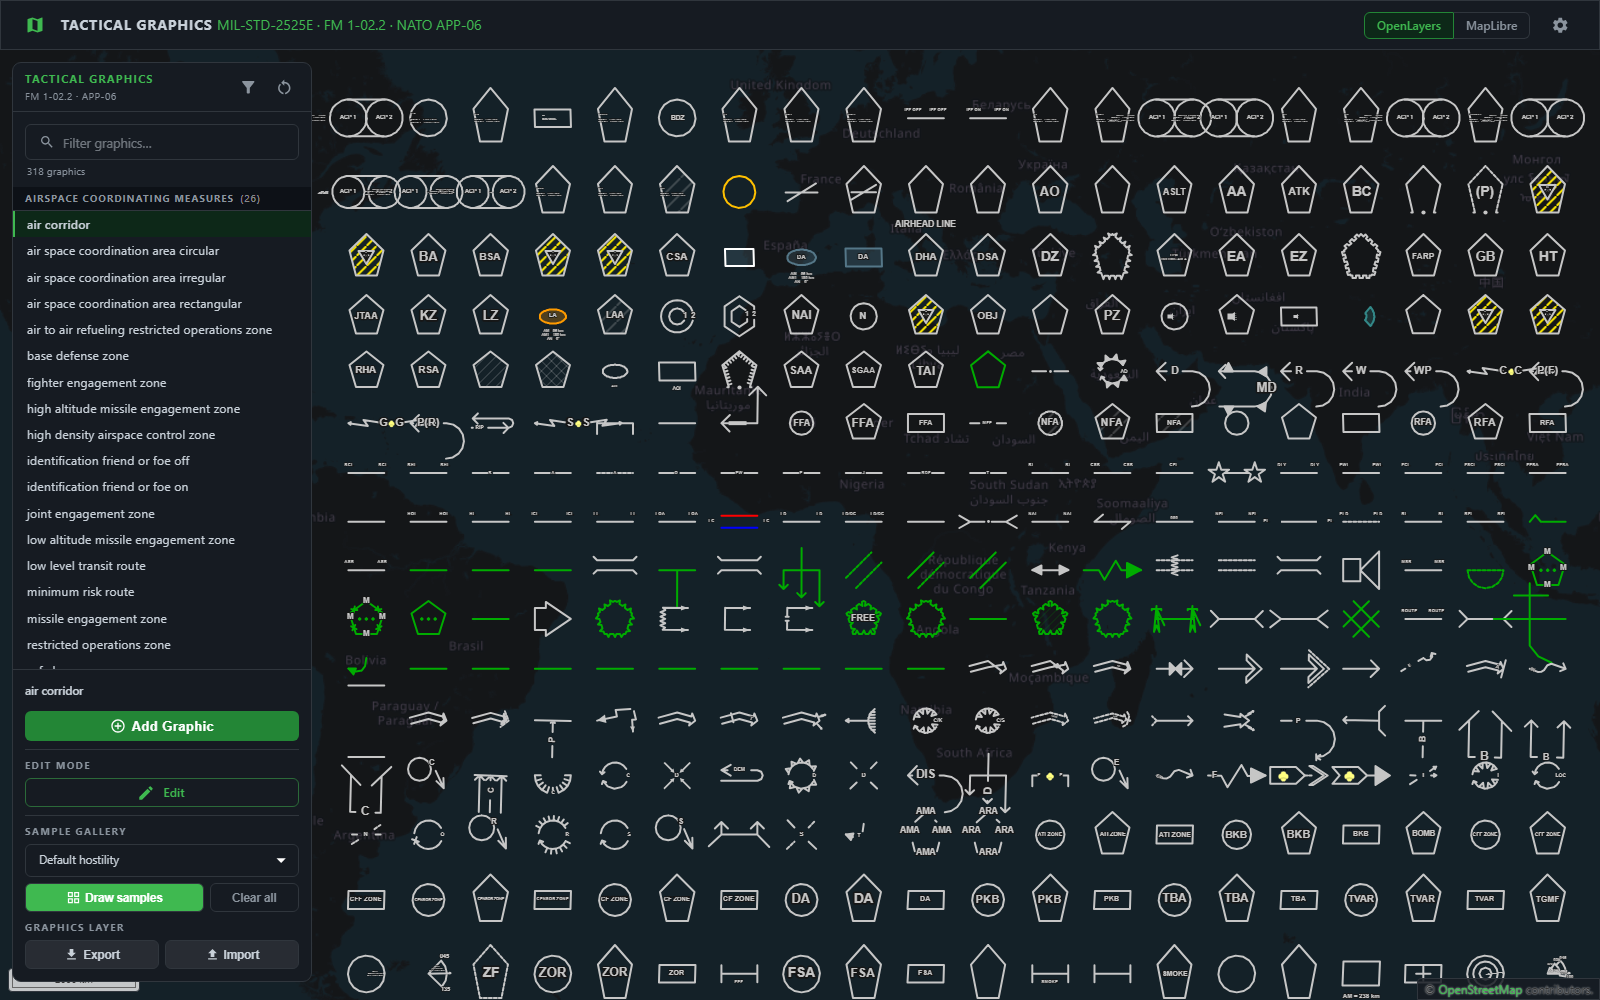
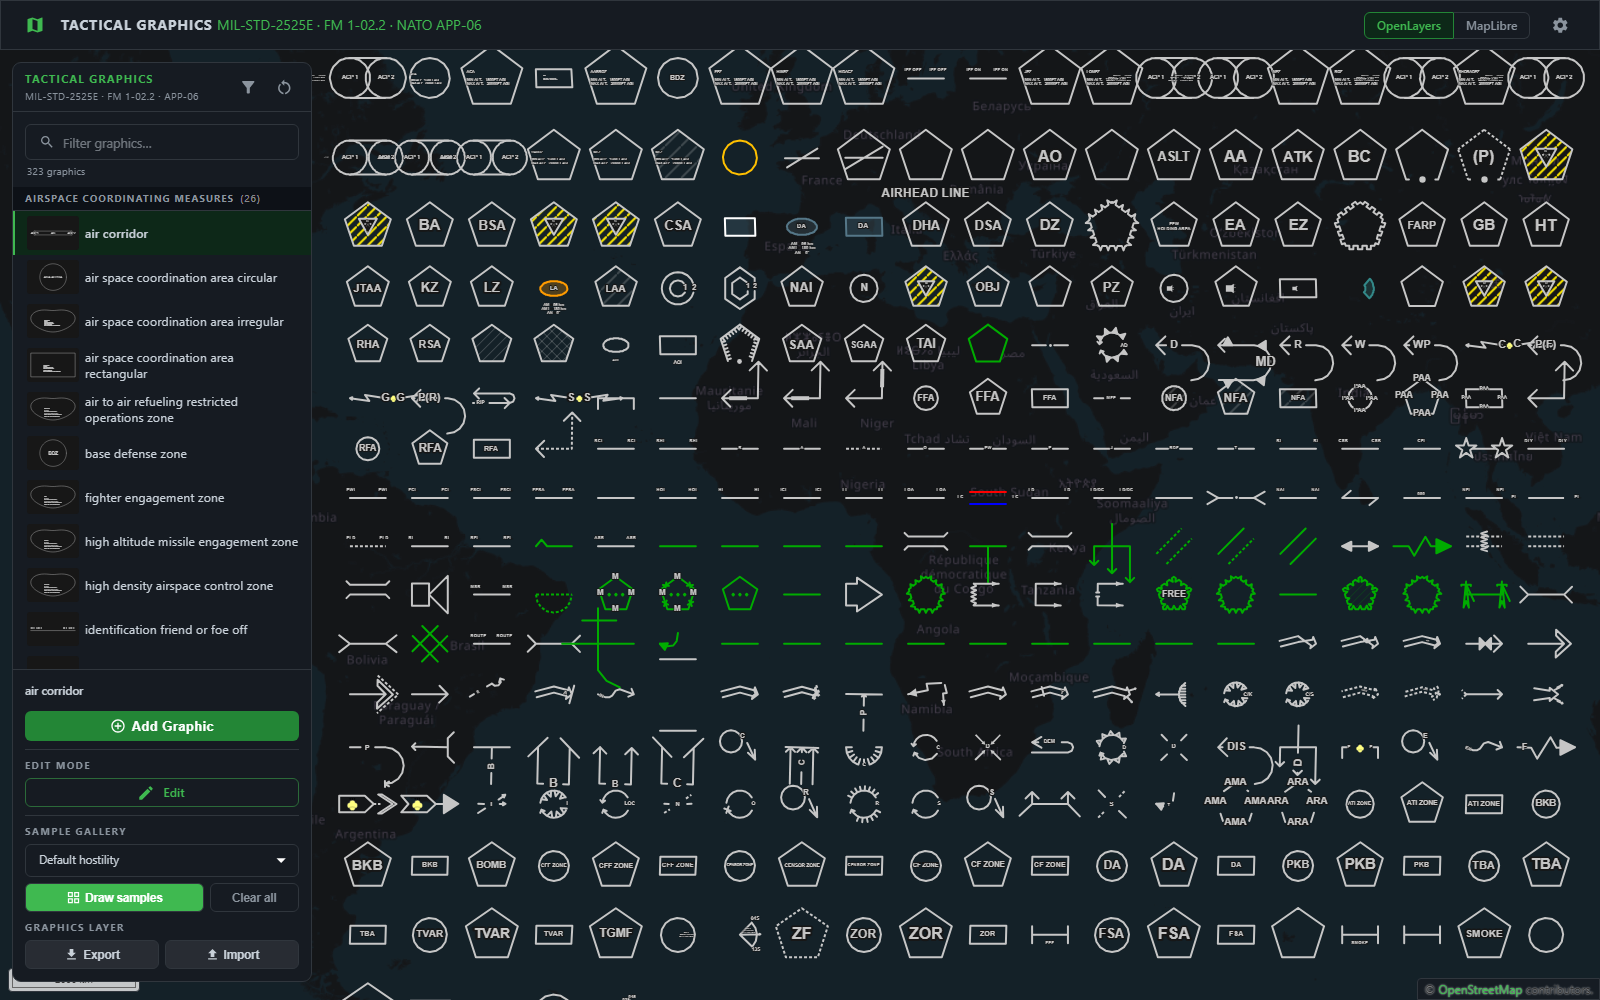
Lead the docs with MIL-STD-2525E before 4.6.0
The README, the package description and the docs home, introduction and
about pages still introduced the library as FM 1-02.2 and APP-06 only.
They now name 2525E first, and the description mentions MapLibre.

Also fixes counts the new graphics moved (TIP_FIRST_GRAPHICS is 31, 317
graphics without a center symbol) and retakes the gallery, which still
showed 318 graphics.

diff --git a/site/guide/tactical-graphic-object.md b/site/guide/tactical-graphic-object.md
@@ -379,12 +379,13 @@ rather than the literal, so pass the enum.
 defines the tip of the arrowhead. Point N-1 defines the rear of the symbol."* So on an
 axis of advance the **first** coordinate is the head and the last is the tail.
 
-**Twenty-seven graphics are listed in `TIP_FIRST_GRAPHICS`**: the ones whose stored order
+**Thirty-one graphics are listed in `TIP_FIRST_GRAPHICS`**: the ones whose stored order
 the library turns around before its generator reads it. The list is the axis-of-advance
 family, avenue of approach, both follow tasks, both counterattacks, advance to contact,
 frontal attack, turning movement, mobile defense, the seven retrograde canes, both fixes,
-fields of fire, search area and the two convoys. Fields of fire and search area are the
-odd ones: APP-06 numbers their **vertex** first, so their first two points swap rather than
+fields of fire and the four symbols MIL-STD-2525E Change 1 draws on its V, search area and
+the two convoys. The fields-of-fire family and search area are the odd ones: APP-06 numbers
+their **vertex** first, so their first two points swap rather than
 the whole line reversing. `generatorOrder(name, coords)` and `storedOrder(name, coords)`
 apply the right one.
 
@@ -397,7 +398,7 @@ stored.
 import {TIP_FIRST_GRAPHICS, drawsTipFirst} from '@zaes/tactical-graphics';
 
 drawsTipFirst(TacticalGraphicName.MainAxisOfAdvance);   // → true
-TIP_FIRST_GRAPHICS.length;                              // → 27
+TIP_FIRST_GRAPHICS.length;                              // → 31
 ```
 
 Nothing about the rendered symbol changes — the shape, its decorations, its handles and
@@ -407,8 +408,8 @@ arrow points at.
 **3.0.0 changed this and saved data is not migrated.** There is no version marker in
 `properties.tacticalGraphic` to detect an older graphic by, so if you hold data written by
 1.x or 2.x, apply 3.0.0's list to it: reverse the coordinate array of every graphic
-`drawsTipFirst` returns true for today (search area and the two convoys did not exist
-then), and of the eight named above that have left the list since. The one exception is
+`drawsTipFirst` returns true for today (search area, the two convoys and the four
+fields-of-fire symbols did not exist then), and of the eight named above that have left the list since. The one exception is
 fields of fire, whose first two points swap instead; `storedOrder` does that for you. The
 multipoint graphics that were never on the list — the ones drawn from anchor points,
 demonstration, the obstacle bypasses, the swept-arc tasks, exfiltrate and infiltrate, the

diff --git a/site/index.md b/site/index.md
@@ -3,7 +3,7 @@ layout: home
 
 hero:
   name: Tactical Graphics
-  text: FM 1-02.2 and APP-06 as plain GeoJSON
+  text: MIL-STD-2525E tactical graphics as plain GeoJSON
   tagline: Axis-of-advance arrows, phase lines, mission tasks, range fans and boundaries, for OpenLayers, MapLibre or anything that reads GeoJSON.
   actions:
     - theme: brand
@@ -23,8 +23,8 @@ features:
   - title: Two renderers, one paint layer
     details: OpenLayers and MapLibre draw from the same symbology code, with drawing, editing and a shared createTacticalGraphics façade.
     link: /guide/rendering
-  - title: Every graphic in both standards
-    details: The line and area graphics of FM 1-02.2 and APP-06, each drawable, checked against the plate that defines it, and editable wherever the symbol allows.
+  - title: Every graphic in all three standards
+    details: The line and area graphics of MIL-STD-2525E, FM 1-02.2 and APP-06, each drawable, checked against the plate that defines it, and editable wherever the symbol allows.
     link: /guide/graphics
   - title: Pictures for a picker
     details: One small SVG per graphic from the thumbnails entry point, drawn by the same paint layer as the map.

diff --git a/site/about.md b/site/about.md
@@ -2,7 +2,7 @@
 
 ## Roadmap
 
-Keep pace with FM 1-02.2 and APP-06 as they are revised. Every graphic this library tracks is
+Keep pace with MIL-STD-2525E, FM 1-02.2 and APP-06 as they are revised. Every graphic this library tracks is
 complete today, so a new edition's additions are what [Upcoming graphics](/guide/graphics#upcoming-graphics)
 will list next.
 
@@ -10,8 +10,8 @@ will list next.
 
 ## References
 
+- [DoD Joint Military Symbology (MIL-STD-2525E), with Change 1 (March 2025)](https://quicksearch.dla.mil/qsDocDetails.aspx?ident_number=114934)
 - [FM 1-02.2, Military Symbols](https://armypubs.army.mil) — US Army, from the Army Publishing Directorate
-- [DoD Joint Military Symbology (MIL-STD-2525E)](https://quicksearch.dla.mil/qsDocDetails.aspx?ident_number=114934)
 - [APP-06, NATO Joint Military Symbology](https://nso.nato.int/nso/nsdd/main/standards), Edition E — retrieved from the
   NATO Standardization Document Database. NATO is acknowledged as its publisher; NATO
   charges no fee for its standardization documents

diff --git a/CHANGELOG.md b/CHANGELOG.md
@@ -35,7 +35,8 @@ the npm publish dates — when a version actually became installable.
   (`140502`, the blade on the other leg),
   `PrincipalDirectionOfFire` (`140503`, no blade) and `SecondaryDirectionOfFire` (`140504`, no blade,
   dashed). They share the V's geometry, handles and editing, and are tagged MIL-STD-2525 only.
-  `FIELD_OF_FIRE_GRAPHICS` and `isFieldOfFire` list the family.
+  `FIELD_OF_FIRE_GRAPHICS` and `isFieldOfFire` list the family. Like fields of fire, all four store
+  their vertex first, so `TIP_FIRST_GRAPHICS` grows from 27 to 31.
 - **Supply-route traffic codes resolve.** APP-06 codes each traffic pattern on a route as its
   own subtype (`330301` is a main supply route with one-way traffic). This library draws those as
   the route plus its `direction` amplifier, and now maps between the two: `resolveEntityCode(code)`

diff --git a/README.md b/README.md
@@ -1,6 +1,6 @@
 # Tactical Graphics
 
-Render **FM 1-02.2 / APP-06 tactical graphics** (axis-of-advance arrows, phase lines, mission tasks, range fans, boundaries) as plain **GeoJSON**, and draw and edit them on **OpenLayers** or **MapLibre**.
+Render **MIL-STD-2525E, FM 1-02.2 and APP-06 tactical graphics** (axis-of-advance arrows, phase lines, mission tasks, range fans, boundaries) as plain **GeoJSON**, and draw and edit them on **OpenLayers** or **MapLibre**.
 
 It complements [milsymbol](https://github.com/spatialillusions/milsymbol), which draws single-point unit symbols: this library draws the multi-point graphics milsymbol does not.
 

diff --git a/site/guide/introduction.md b/site/guide/introduction.md
@@ -1,6 +1,6 @@
 # Introduction
 
-Render **FM 1-02.2 / APP-06 tactical graphics** — axis-of-advance arrows, phase lines, mission tasks, range fans, boundaries — as plain **GeoJSON**.
+Render **MIL-STD-2525E, FM 1-02.2 and APP-06 tactical graphics** (axis-of-advance arrows, phase lines, mission tasks, range fans, boundaries) as plain **GeoJSON**.
 
 Describe a graphic by adding a `tacticalGraphic` object to any GeoJSON feature's `properties`. Call one function. Get GeoJSON back. Draw it with OpenLayers, MapLibre, or anything else that reads GeoJSON.
 

diff --git a/site/guide/center-symbol.md b/site/guide/center-symbol.md
@@ -37,7 +37,7 @@ them holds a fixed pixel size — and all six stop growing at the same 96 px cei
 
 Register nothing and the arms and labels draw with an empty center — no error, no
 missing module. That is what makes `milsymbol` an *actually* optional peer
-dependency: a consumer who wants the geometry, or the other 312 graphics, never
+dependency: a consumer who wants the geometry, or the other 317 graphics, never
 resolves it.
 
 The SIDC handed to the provider is derived from the graphic's own `hostility`, so a
